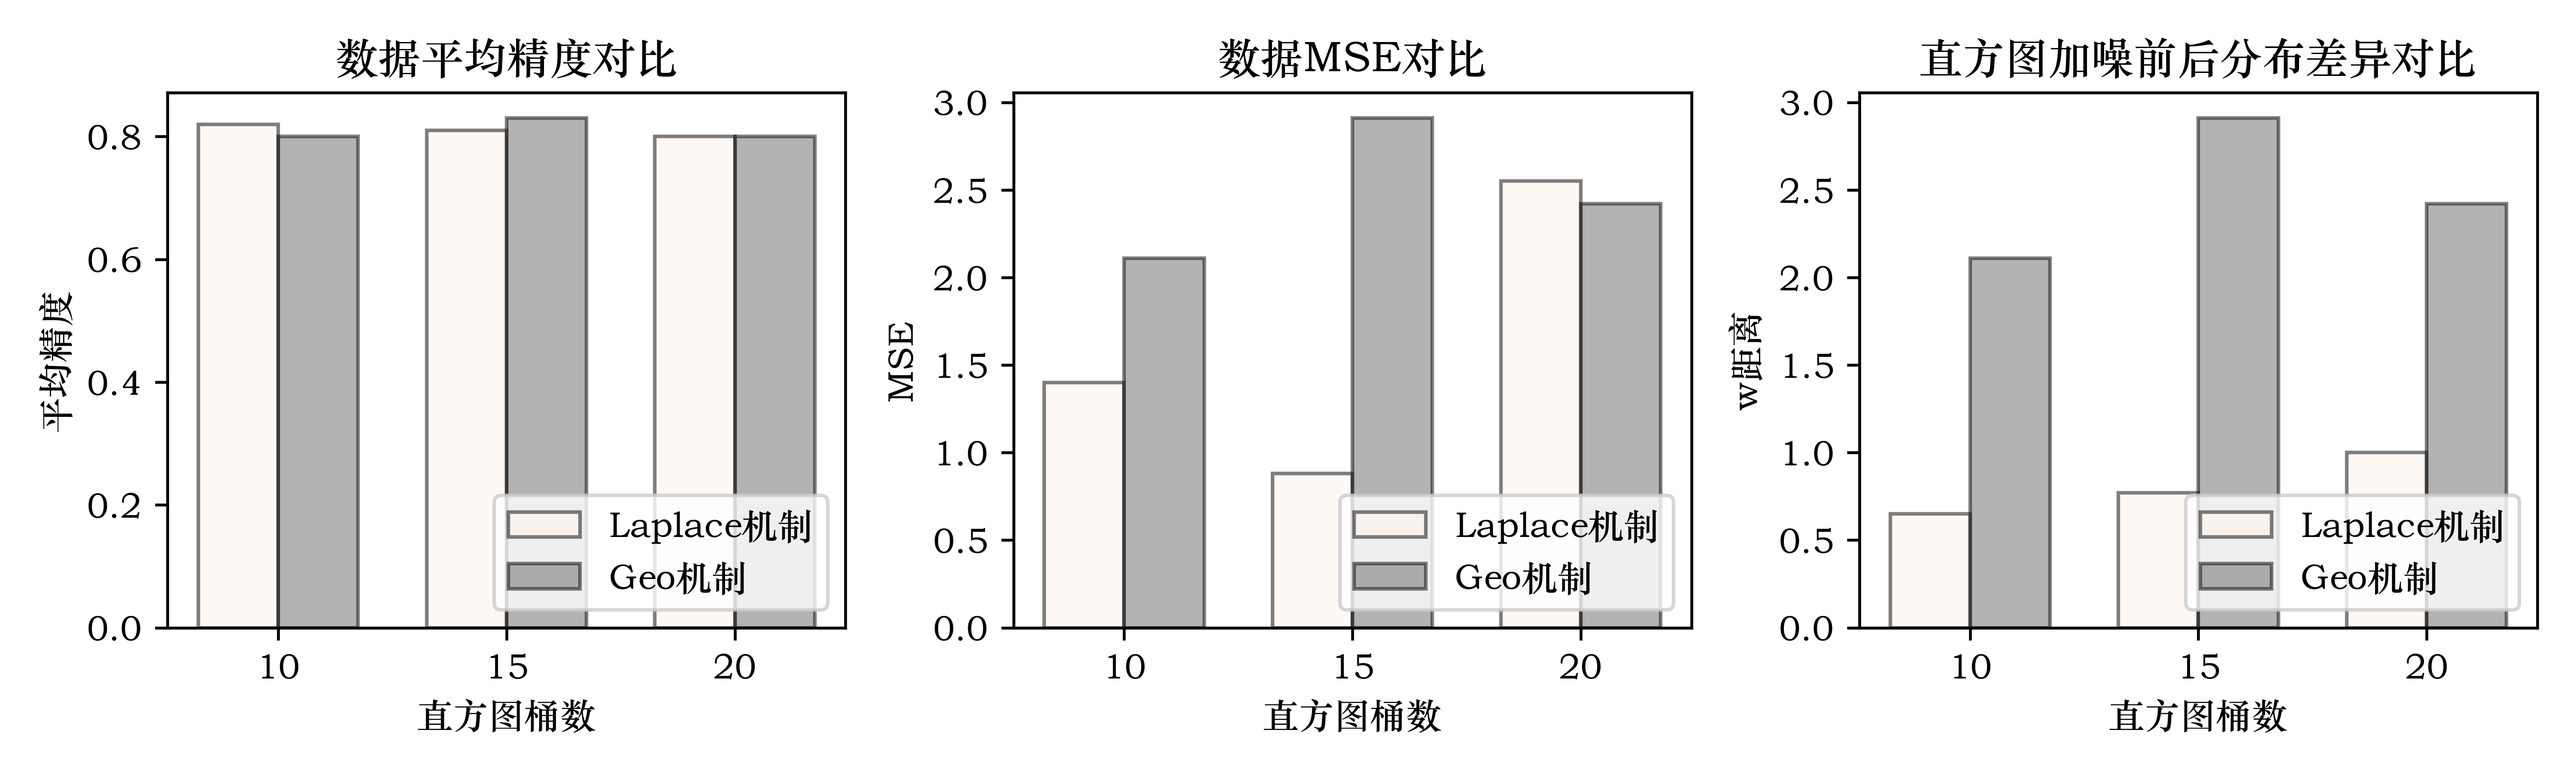
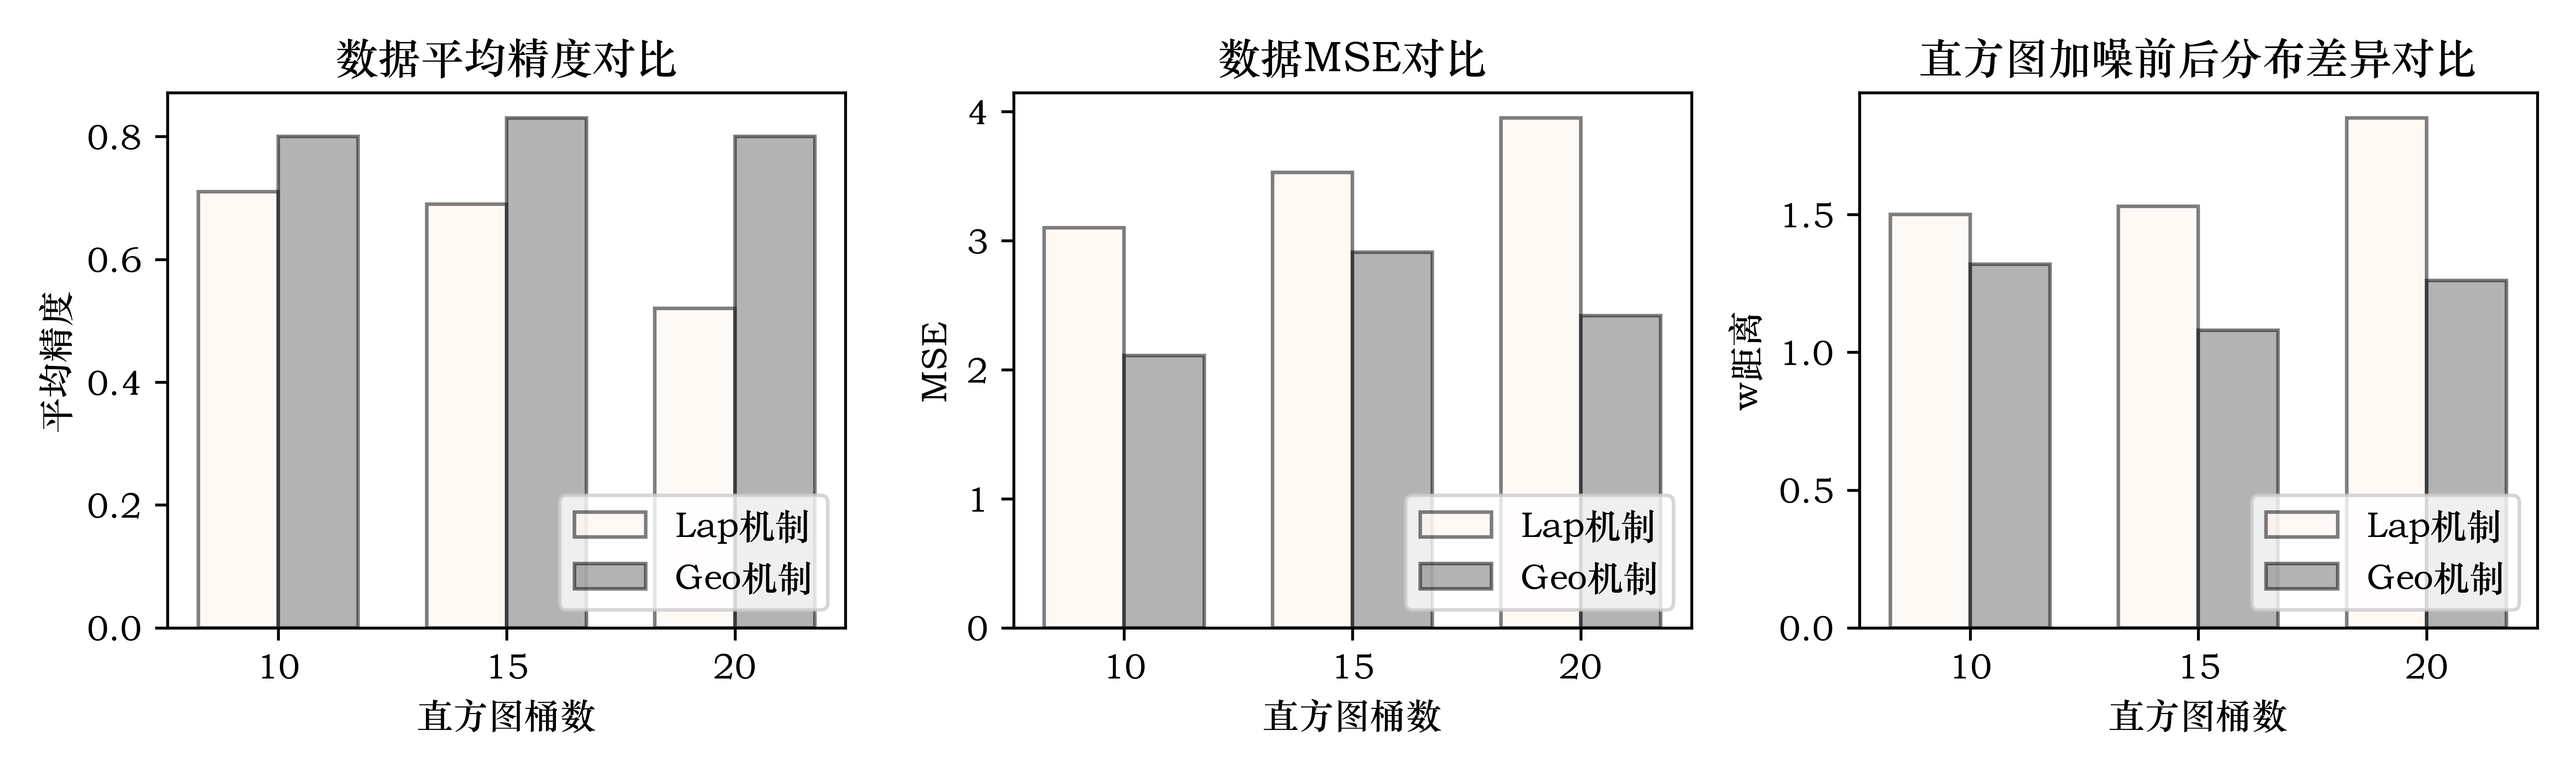
feat: 增加对比实验图

diff --git a/cal_price/compare.py b/cal_price/compare.py
@@ -4,71 +4,169 @@ import numpy as np
 plt.rcParams['font.sans-serif'] = ['STZhongsong']
 plt.rcParams['axes.unicode_minus'] = False
 plt.rcParams['figure.dpi'] = 600
-plt.rcParams['figure.figsize'] = (10,3)
-
-ACC: [0.82, 0.81, 0.82]
+plt.rcParams['figure.figsize'] = (10,8)
 
 
-lapalce_acc = [0.82, 0.81, 0.80]
+# Heart Dataset
+lapalce_acc = [0.71, 0.69, 0.52]
 geo_acc = [0.80,0.83,0.80]
 
-laplace_w = [0.65, 0.77, 1.0]
+laplace_w = [1.5, 1.53, 1.85]
 geo_w = [1.32, 1.08, 1.26]
 
-laplace_mse= [1.4, 0.88, 2.55]
+laplace_mse= [3.1, 3.53, 3.95]
 geo_mse = [2.11,2.91,2.42]
 
+# Income Dataset
+# lapalce_acc = [0.97, 0.92, 0.92]
+# geo_acc = [0.97,0.93,0.91]
+#
+# laplace_w = [1.9, 2.0, 1.95]
+# geo_w = [1.28, 1.74, 1.43]
+#
+# laplace_mse= [3.7, 4.0, 3.85]
+# geo_mse = [1.75,6.42,3.28]
 
-x = np.arange(3)
-bar_width = 0.35
+def _plot_compare():
+    x = np.arange(3)
+    bar_width = 0.35
 
-tick_label = ["10", "15", "20"]
+    tick_label = ["10", "15", "20"]
 
-plt.subplot(1,3,1)
-
-
-plt.bar(x, lapalce_acc, bar_width, align="center", color="seashell", label="Laplace机制", alpha=0.5, edgecolor='black')
-plt.bar(x+bar_width, geo_acc, bar_width,  align="center",color="dimgrey", label="Geo机制", alpha=0.5, edgecolor='black')
-
-plt.xticks(x+bar_width/2, tick_label)
-
-plt.legend(loc = 4)
-
-plt.xlabel("直方图桶数")
-plt.ylabel("平均精度")
-plt.title("数据平均精度对比")
-plt.subplots_adjust(wspace=0.3)
-plt.tight_layout()
-
-plt.subplot(1,3,2)
-
-plt.bar(x, laplace_mse, bar_width, align="center", color="seashell", label="Laplace机制", alpha=0.5, edgecolor='black')
-plt.bar(x+bar_width, geo_mse, bar_width,  align="center",color="dimgrey", label="Geo机制", alpha=0.5, edgecolor='black')
-
-plt.xticks(x+bar_width/2, tick_label)
-
-plt.legend(loc = 4)
-
-plt.xlabel("直方图桶数")
-plt.ylabel("MSE")
-plt.title("数据MSE对比")
-plt.subplots_adjust(wspace=0.3)
-plt.tight_layout()
-
-plt.subplot(1,3,3)
-
-plt.bar(x, laplace_w, bar_width, align="center", color="seashell", label="Laplace机制", alpha=0.5, edgecolor='black')
-plt.bar(x+bar_width, geo_mse, bar_width,  align="center",color="dimgrey", label="Geo机制", alpha=0.5, edgecolor='black')
-
-plt.xticks(x+bar_width/2, tick_label)
-
-plt.legend(loc = 4)
-
-plt.xlabel("直方图桶数")
-plt.ylabel("w距离")
-plt.title("直方图加噪前后分布差异对比")
-plt.tight_layout()
+    plt.subplot(1,4,1)
 
 
-plt.savefig("../img/compared_heart_acc.png")
-plt.show()
+    plt.bar(x, lapalce_acc, bar_width, align="center", color="seashell", label="Lap机制", alpha=0.5, edgecolor='black')
+    plt.bar(x+bar_width, geo_acc, bar_width,  align="center",color="dimgrey", label="Geo机制", alpha=0.5, edgecolor='black')
+
+    plt.xticks(x+bar_width/2, tick_label)
+
+    plt.legend(loc = 4)
+
+    plt.xlabel("直方图桶数")
+    plt.ylabel("平均精度")
+    plt.title("数据平均精度对比")
+    plt.subplots_adjust(wspace=0.3)
+    plt.tight_layout()
+
+    plt.subplot(1,3,2)
+
+    plt.bar(x, laplace_mse, bar_width, align="center", color="seashell", label="Lap机制", alpha=0.5, edgecolor='black')
+    plt.bar(x+bar_width, geo_mse, bar_width,  align="center",color="dimgrey", label="Geo机制", alpha=0.5, edgecolor='black')
+
+    plt.xticks(x+bar_width/2, tick_label)
+
+    plt.legend(loc = 4)
+
+    plt.xlabel("直方图桶数")
+    plt.ylabel("MSE")
+    plt.title("数据MSE对比")
+    plt.subplots_adjust(wspace=0.3)
+    plt.tight_layout()
+
+    plt.subplot(1,3,3)
+
+    plt.bar(x, laplace_w, bar_width, align="center", color="seashell", label="Lap机制", alpha=0.5, edgecolor='black')
+    plt.bar(x+bar_width, geo_w, bar_width,  align="center",color="dimgrey", label="Geo机制", alpha=0.5, edgecolor='black')
+
+    plt.xticks(x+bar_width/2, tick_label)
+
+    plt.legend(loc = 4)
+
+    plt.xlabel("直方图桶数")
+    plt.ylabel("w距离")
+    plt.title("直方图加噪前后分布差异对比")
+    plt.tight_layout()
+
+
+    plt.savefig("../img/compared_heart_acc.png")
+    plt.show()
+
+def _plot_time():
+    # plt.rcParams['figure.figsize'] = (10, 8)
+
+    t11 = [244, 1220, 2741]
+    t12 = [7, 17, 34]
+    t21 = [5,6,7]
+    t22 = [4,4,4]
+
+
+    x = np.arange(3)
+    bar_width = 0.35
+
+    tick_label = ["单次查询", "多次查询", "组合查询"]
+
+    plt.subplot(2, 2, 1)
+
+    plt.bar(x, t11, bar_width, align="center", color="seashell", label="Adult", alpha=0.5, edgecolor='black')
+    # plt.bar(x+bar_width, t12, bar_width,  align="center",color="dimgrey", label="Geo机制", alpha=0.5, edgecolor='black')
+
+    plt.xticks(x, tick_label)
+
+    plt.legend(loc = 4)
+
+    plt.xlabel("($a$)")
+    plt.ylabel("运行时间($ms$)")
+    plt.title("计算$\epsilon$的运行时间(优化前)")
+    plt.subplots_adjust(wspace=0.3)
+    plt.tight_layout()
+
+    plt.subplot(2,2,2)
+
+    plt.bar(x, t12, bar_width, align="center", color="dimgrey", label="Heart", alpha=0.5, edgecolor='black')
+    # plt.bar(x+bar_width, t12, bar_width,  align="center",color="dimgrey", label="Geo机制", alpha=0.5, edgecolor='black')
+
+    plt.xticks(x, tick_label)
+
+    plt.legend(loc = 4)
+
+    plt.xlabel("($b$)")
+    plt.ylabel("运行时间($ms$)")
+    plt.title("计算$\epsilon$的运行时间(优化前)")
+    plt.subplots_adjust(wspace=0.3)
+    plt.tight_layout()
+
+
+    plt.subplot(2,2,3)
+
+
+    plt.bar(x, t21, bar_width, align="center", color="seashell", label="Adult", alpha=0.5, edgecolor='black')
+    plt.bar(x+bar_width, t22, bar_width,  align="center",color="dimgrey", label="Heart", alpha=0.5, edgecolor='black')
+
+    plt.xticks(x+bar_width/2, tick_label)
+
+    plt.legend(loc = 4)
+    plt.xlabel("($c$)")
+    plt.ylabel("运行时间($ms$)")
+    plt.title("计算$\epsilon$的运行时间(优化后)")
+
+    plt.tight_layout()
+
+    plt.subplot(2,2,4)
+
+    t3 = [4,6,26,221]
+
+    bar_width = 0.35
+
+    tick_label = ["1", "50", "500","5000（次）"]
+    x = np.arange(len(tick_label))
+
+
+
+    plt.bar(x, t3, bar_width, align="center", color="seashell", label="Adult", alpha=0.5, edgecolor='black')
+
+    plt.xticks(x, tick_label)
+
+    plt.legend(loc = 4)
+    plt.xlabel("($d$)")
+    plt.ylabel("运行时间($ms$)")
+    plt.title("不同查询次数下计算$\epsilon$的运行时间(优化后)")
+
+    plt.tight_layout()
+
+
+    plt.savefig("../img/compared_time.png")
+
+    plt.show()
+
+_plot_time()

diff --git a/cal_price/calProb.py b/cal_price/calProb.py
@@ -81,43 +81,49 @@ class CalProbability(object):
 
 
     def _cal_prob(self):
+        n = 5000
         data_url = self.data_url
         # data_url = "../data/adult_2.csv"
         data = pd.read_csv(data_url)
         # 开始时间
-        startT = time.time()*1000 #毫秒数
+        startT = time.time() #毫秒数
         A = _attr_extraction(data_url)
-        # 权重计算
-        W = _cal_type_weight(A)
-        # 数据类型价值矩阵
         C = [0.3685, 0.6725, 0.19, 0.0825, 0.07]
-        p = sum(np.array(W) * np.array(C))
-        # 可信度设置
-        c = 0.9
-        p = p * c
-        # 时效性设置
-        t0 = 0
-        tc = 5
-        T = tc-t0
-        delta = 1 / ((1+0.05)**T)
-        p = p*delta
+
+        for i in range(n):
+            # 权重计算
+            W = _cal_type_weight(A)
+            # 数据类型价值矩阵
+            p = sum(np.array(W) * np.array(C))
+            # 可信度设置
+            c = 0.9
+            p = p * c
+            # 时效性设置
+            t0 = 0
+            tc = 5
+            T = tc-t0
+            delta = 1 / ((1+0.05)**T)
+            p = p*delta
+
+        endT = time.time()
+        interval = endT - startT
+        print("=====优化后运行时间=======：", interval * 1000)
         # 信息熵计算
         hw = _cal_entropy(data, self.targetA, A)
         p = p*hw
         prob = _cal_attack_p(p)
-
-        endT = time.time() * 1000
-        interval = endT - startT
-        print("运行时间：",interval)
         print("数据价值：",p)
         print("攻击成功概率", prob)
+        # endT = time.time()
+        # interval = endT - startT
+        # print("优化前运行时间：", interval * 1000)
         return prob
 
 
 # 计算相应的攻击成功概率
 heart_data_url = '../data/heart.csv' #2018年
 income_data_url = '../data/adult_2.csv' #2016年
-prob = CalProbability(income_data_url, ['age', 'income'])._cal_prob()
+prob = CalProbability(heart_data_url, ['age', 'target'])._cal_prob()
 print(prob)
 
 # adult 0.86 0.3

diff --git a/cal_price/hist.py b/cal_price/hist.py
@@ -16,8 +16,8 @@ heart_data_url = "../data/heart.csv"
 credit_data = pd.read_csv("../data/german_credit_data.csv")
 income_data_url = "../data/adult_2.csv"
 income_data = pd.read_csv("../data/income.csv")
-# age = income_data["age"]
-age = heart_data["age"]
+age = income_data["age"]
+# age = heart_data["age"]
 # age = credit_data["Age"]
 N = len(age)
 
@@ -29,7 +29,7 @@ WD = []
 MSE = []
 ACC = []
 # 设置lamda
-lamda = 0.26
+lamda = 0.3
 
 # 计算目标直方图的数据价值
 # 计算相应的攻击成功概率

diff --git a/cal_price/calEps.py b/cal_price/calEps.py
@@ -74,14 +74,14 @@ startT = time.time()  # 毫秒数
 
 # solved = root(_solve_function, [0.5])
 
-# solved = root(_solve_lamda_func, [0.4])
+solved = root(_solve_lamda_func, [0.4])
 
 
 endT = time.time()
 interval = endT - startT
 # 计算结果，lamda
 # print(solved)
-# print(interval * 1000)
+print("计算不等式的时间", interval * 1000)
 # print(-np.log(solved))
 
 plot_cross(y)
